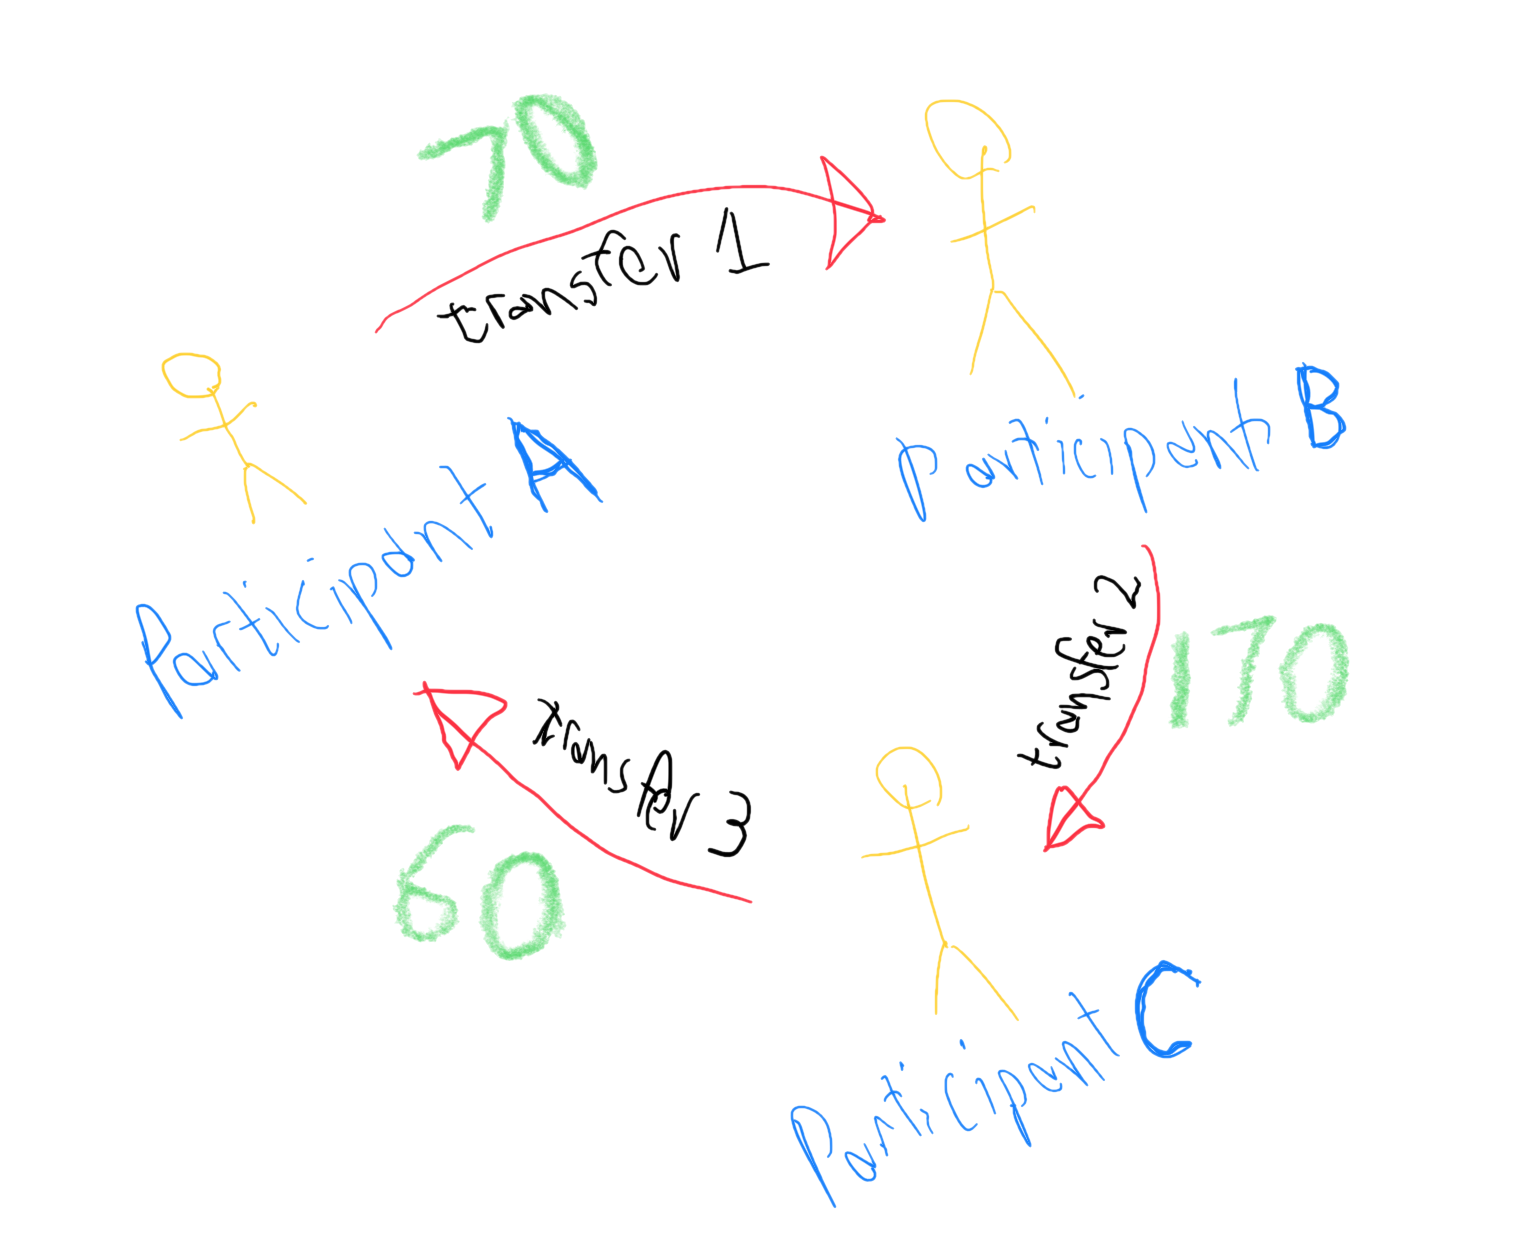
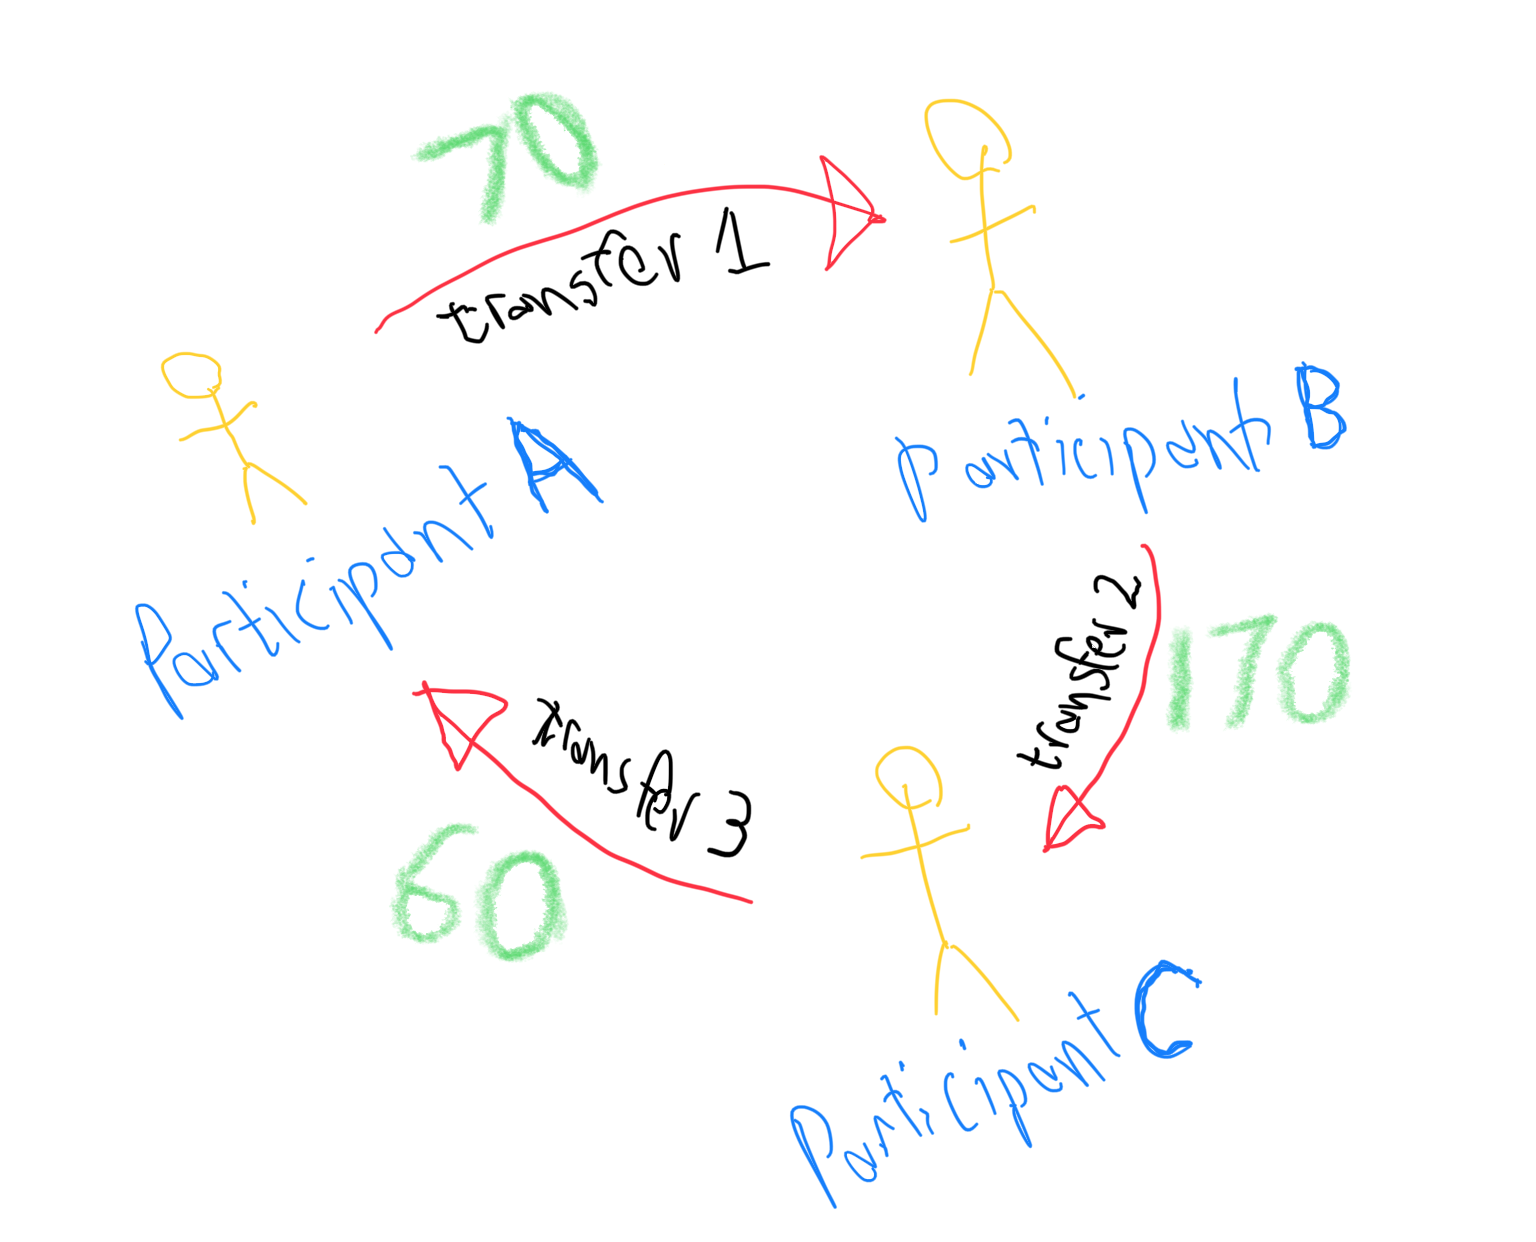
Fixed for transparency.

diff --git a/README.md b/README.md
@@ -282,7 +282,7 @@ Transfer 3 is for `60` units from Participant C to Participant A.
 
 
 ### Summary
-<img alt="Transfer Summary" src="solution_design/transfer.png" width="40%" title="Transfer Summary - A to B and C to A"/>
+<img alt="Transfer Summary" src="solution_design/transfer-t.png" width="55%" title="Transfer Summary - A to B and C to A"/>
 
 * A's Liquidity has a CR balance of  `100 - 10 - 70 + 60 = 80`
   * Opening balance of `100` units 
